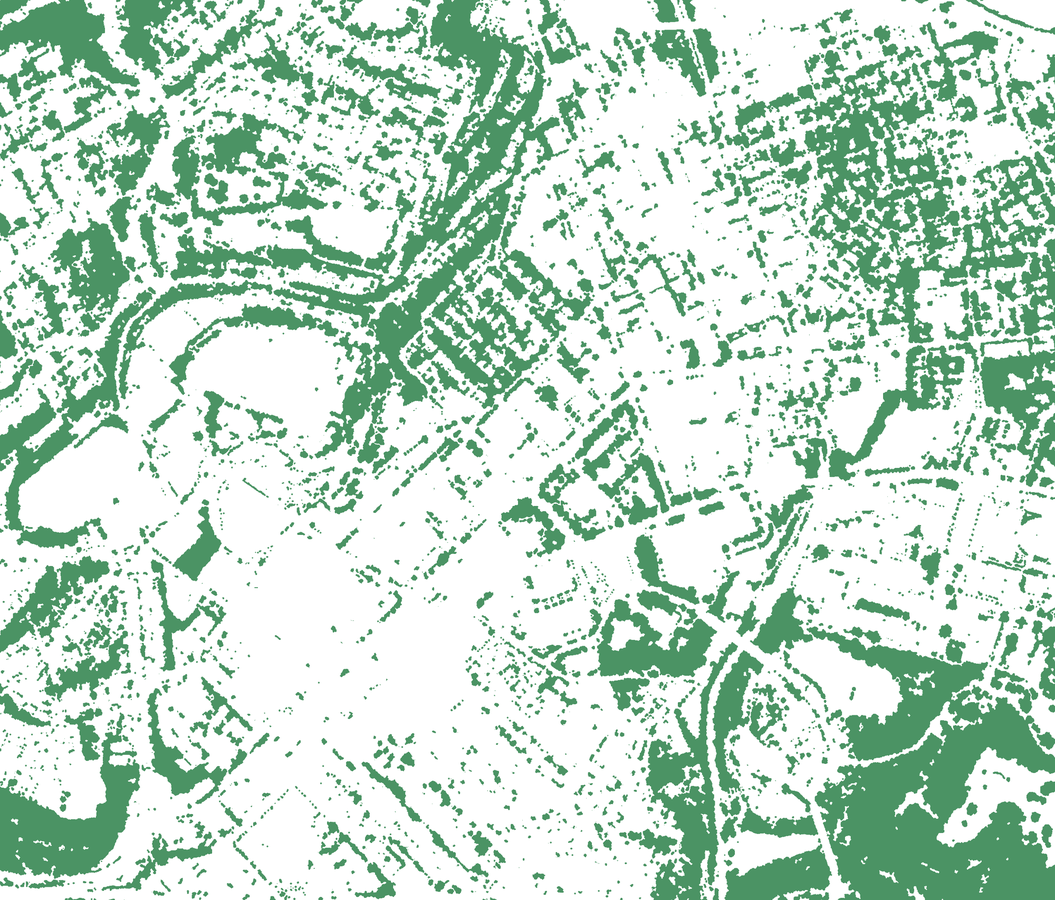
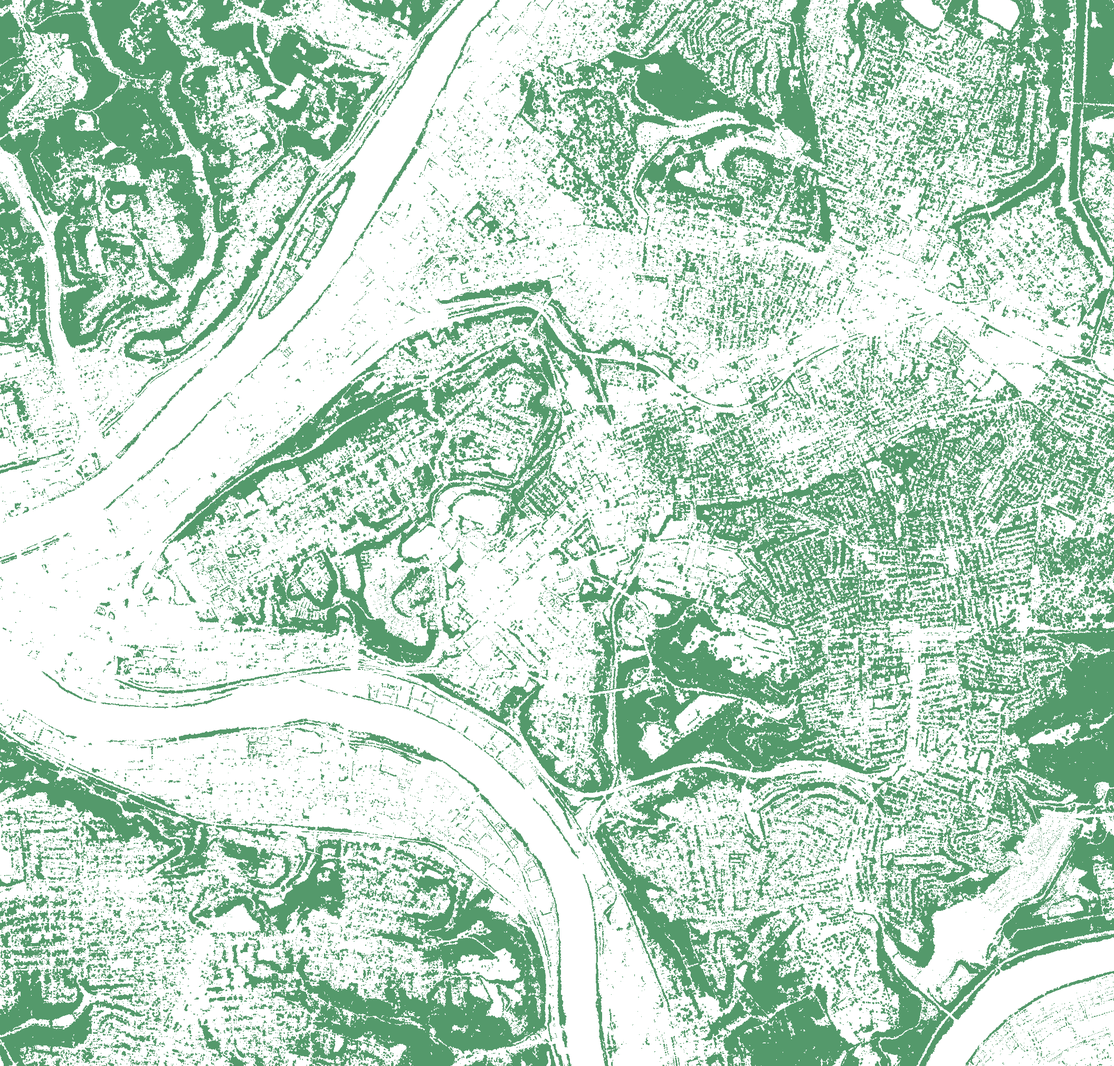
Widen the canopy layer for context; mark the modelled area; drop CARTO tiles
Canopy was drawn only for the study area, so at any zoom that showed the
wider city, leafy neighbours like Squirrel Hill and Shadyside appeared bare -
"no data" and "no trees" rendered identically.

Canopy now has two rasters with different jobs:
  - simulation: 1 m over the study area, unchanged, still the only thing
    sampled for exposure
  - display:    4 m over a 3 km padded area, never sampled
Verified the split changes nothing: crash test for 2035 / 3 PM / older adults
is bit-identical at 2082.319455.

Also draws the modelled area as a dashed outline. The context canopy now
deliberately extends past the scored area, so the map has to say which part
is scored - otherwise it trades one ambiguity for another.

Separately, the "API KEY REQUIRED" watermark was coming from make inspect,
not the app: pipeline/inspect_map.py still pointed at CARTO's raster tiles,
which now require a key and stamp that text across every tile. Switched to
OpenStreetMap tiles, which need none. The app was already clean - it uses
Mapbox when a token is set and OSM otherwise.

canopy.png drops from 1.73 MB to 0.53 MB despite covering 11x the area,
since display does not need metre resolution. Bundle 7.3 MB -> 6.1 MB.

diff --git a/web/components/MapView.tsx b/web/components/MapView.tsx
@@ -179,6 +179,29 @@ export default function MapView({
           },
         });
 
+        // The modelled area, drawn as a thin outline. Without it a viewer
+        // cannot tell "no exposure here" from "we did not model here", and
+        // the canopy layer deliberately extends past it for context.
+        const { west, south, east, north } = meta.scope;
+        m.addSource("scope", {
+          type: "geojson",
+          data: {
+            type: "Feature", properties: {},
+            geometry: {
+              type: "LineString",
+              coordinates: [[west, south], [east, south], [east, north],
+                            [west, north], [west, south]],
+            },
+          } as GeoJSON.Feature,
+        });
+        m.addLayer({
+          id: "scope", type: "line", source: "scope",
+          paint: {
+            "line-color": "#64748b", "line-width": 1.2,
+            "line-dasharray": [4, 3], "line-opacity": 0.7,
+          },
+        });
+
         m.addSource("segments", { type: "geojson", data: segments });
         // Grey baseline so the street network is legible before any run.
         m.addLayer({

diff --git a/web/lib/types.ts b/web/lib/types.ts
@@ -24,8 +24,17 @@ export interface Intervention {
 export interface CanopyMeta {
   bounds: [number, number][];
   cover_pct: number;
+  context_cover_pct: number;
   source: string;
   vintage: string;
+}
+
+/** The square the model actually runs in. */
+export interface Scope {
+  west: number;
+  south: number;
+  east: number;
+  north: number;
 }
 
 export interface Meta {
@@ -39,6 +48,7 @@ export interface Meta {
   interventions: Record<string, Intervention>;
   variants: string[];
   canopy: CanopyMeta | null;
+  scope: Scope;
   climate_method: Record<string, unknown>;
   canopy_source: string;
   canopy_vintage: string;

diff --git a/web/components/ControlPanel.tsx b/web/components/ControlPanel.tsx
@@ -95,6 +95,10 @@ export default function ControlPanel({
           Oakland, Pittsburgh · {meta.seg_ids.length.toLocaleString()} walking
           segments · Forbes / Fifth / Craig corridors
         </p>
+        <p className="mt-1 text-[11px] text-slate-500">
+          The dashed square on the map is the modelled area. Context layers
+          extend past it; nothing outside it is scored.
+        </p>
       </Row>
 
       <Row n={2} title="Time">

diff --git a/pipeline/canopy.py b/pipeline/canopy.py
@@ -34,15 +34,59 @@ CANOPY_SOURCE = "Allegheny County Urban Tree Canopy 2010 (Tree Pittsburgh / Univ
 
 # Class colours in the served rendering, sampled from the raster itself.
 CANOPY_RGB = (0, 128, 0)
-PIXEL_M = 1.0          # one metre per pixel
+PIXEL_M = 1.0          # one metre per pixel, for the simulation raster
 MAX_PIXELS = 4000      # service-side export cap
 
+# A second, wider raster exists only so the map does not end in a hard green
+# rectangle. Drawing canopy for the study area alone makes leafy neighbours
+# like Squirrel Hill and Shadyside look bare, because "no data" and "no
+# trees" render identically. This layer is never sampled for exposure - the
+# simulation still runs on the narrow study area and nothing else.
+CONTEXT_PAD_M = 3000.0
+CONTEXT_PIXEL_M = 4.0
+CONTEXT_PATH = RAW / "canopy_context.npz"
 
-def _metric_bounds() -> tuple[float, float, float, float]:
+
+def _metric_bounds(pad_m: float = 0.0) -> tuple[float, float, float, float]:
     bb = gpd.GeoSeries(
         [box(BBOX["west"], BBOX["south"], BBOX["east"], BBOX["north"])],
         crs=CRS_WGS84).to_crs(CRS_METRIC).iloc[0]
-    return bb.bounds  # minx, miny, maxx, maxy
+    minx, miny, maxx, maxy = bb.bounds
+    return (minx - pad_m, miny - pad_m, maxx + pad_m, maxy + pad_m)
+
+
+def _fetch_mask(minx: float, miny: float, maxx: float, maxy: float,
+                pixel_m: float) -> np.ndarray:
+    """Export the land-cover rendering and keep only the tree-canopy class."""
+    w = int(np.ceil((maxx - minx) / pixel_m))
+    h = int(np.ceil((maxy - miny) / pixel_m))
+    if max(w, h) > MAX_PIXELS:
+        raise RuntimeError(f"export {w}x{h} exceeds service cap {MAX_PIXELS}")
+
+    epsg = int(CRS_METRIC.split(":")[1])
+    r = requests.get(SERVICE, params={
+        "bbox": f"{minx},{miny},{maxx},{maxy}", "bboxSR": epsg, "imageSR": epsg,
+        "size": f"{w},{h}", "format": "png", "transparent": "false",
+        "f": "image", "layers": "show:0",
+    }, timeout=300)
+    r.raise_for_status()
+    rgb = np.array(Image.open(io.BytesIO(r.content)).convert("RGB"))
+    mask = np.all(rgb == np.array(CANOPY_RGB, dtype=np.uint8), axis=-1)
+    # PNG rows run north->south; flip so row index increases with northing.
+    return np.flipud(mask)
+
+
+def build_context_mask(force: bool = False) -> tuple[np.ndarray, tuple]:
+    """Coarser canopy over a padded area, for display context only."""
+    if CONTEXT_PATH.exists() and not force:
+        z = np.load(CONTEXT_PATH)
+        return z["mask"], (float(z["minx"]), float(z["miny"]), float(z["pixel_m"]))
+    minx, miny, maxx, maxy = _metric_bounds(CONTEXT_PAD_M)
+    mask = _fetch_mask(minx, miny, maxx, maxy, CONTEXT_PIXEL_M)
+    CONTEXT_PATH.parent.mkdir(parents=True, exist_ok=True)
+    np.savez_compressed(CONTEXT_PATH, mask=mask, minx=minx, miny=miny,
+                        pixel_m=CONTEXT_PIXEL_M)
+    return mask, (minx, miny, CONTEXT_PIXEL_M)
 
 
 def build_mask(force: bool = False) -> tuple[np.ndarray, tuple]:
@@ -56,24 +100,7 @@ def build_mask(force: bool = False) -> tuple[np.ndarray, tuple]:
         return z["mask"], (float(z["minx"]), float(z["miny"]), float(z["pixel_m"]))
 
     minx, miny, maxx, maxy = _metric_bounds()
-    w = int(np.ceil((maxx - minx) / PIXEL_M))
-    h = int(np.ceil((maxy - miny) / PIXEL_M))
-    if max(w, h) > MAX_PIXELS:
-        raise RuntimeError(f"export {w}x{h} exceeds service cap {MAX_PIXELS}")
-
-    epsg = int(CRS_METRIC.split(":")[1])
-    r = requests.get(SERVICE, params={
-        "bbox": f"{minx},{miny},{maxx},{maxy}", "bboxSR": epsg, "imageSR": epsg,
-        "size": f"{w},{h}", "format": "png", "transparent": "false",
-        "f": "image", "layers": "show:0",
-    }, timeout=300)
-    r.raise_for_status()
-
-    rgb = np.array(Image.open(io.BytesIO(r.content)).convert("RGB"))
-    mask = np.all(rgb == np.array(CANOPY_RGB, dtype=np.uint8), axis=-1)
-    # PNG rows run north->south; flip so row index increases with northing.
-    mask = np.flipud(mask)
-
+    mask = _fetch_mask(minx, miny, maxx, maxy, PIXEL_M)
     MASK_PATH.parent.mkdir(parents=True, exist_ok=True)
     np.savez_compressed(MASK_PATH, mask=mask, minx=minx, miny=miny,
                         pixel_m=PIXEL_M)
@@ -94,6 +121,10 @@ def sample(mask: np.ndarray, geo: tuple, xs: np.ndarray, ys: np.ndarray
 
 if __name__ == "__main__":
     mask, geo = build_mask()
-    print(f"  canopy mask {mask.shape[1]}x{mask.shape[0]} px @ {geo[2]:.0f} m")
+    print(f"  simulation mask {mask.shape[1]}x{mask.shape[0]} px @ {geo[2]:.0f} m")
     print(f"  canopy cover: {mask.mean()*100:.1f}% of the study area")
+    cmask, cgeo = build_context_mask()
+    print(f"  context mask   {cmask.shape[1]}x{cmask.shape[0]} px @ {cgeo[2]:.0f} m "
+          f"({CONTEXT_PAD_M/1000:.0f} km pad, display only)")
+    print(f"  context cover: {cmask.mean()*100:.1f}%")
     print(f"  source: {CANOPY_SOURCE}")

diff --git a/pipeline/step08_export_web.py b/pipeline/step08_export_web.py
@@ -19,8 +19,8 @@ import numpy as np
 
 sys.path.insert(0, str(__import__("pathlib").Path(__file__).resolve().parent.parent / "api"))
 
-from config import (CACHE, CENTER, CORRIDORS, CRS_METRIC, CRS_WGS84, HOURS,  # noqa: E402
-                    PERSONAS, ROOT)
+from config import (BBOX, CACHE, CENTER, CORRIDORS, CRS_METRIC,  # noqa: E402
+                    CRS_WGS84, HOURS, PERSONAS, ROOT)
 from engine import Adapter, Engine  # noqa: E402
 
 OUT = ROOT / "web" / "public" / "data"
@@ -95,11 +95,15 @@ def main() -> None:
         from shapely.geometry import box as _box
 
         import canopy as canopy_mod
-        mask, geo = canopy_mod.build_mask()
+        # Display uses the padded context raster, so the layer does not end in
+        # a hard rectangle that makes leafy neighbouring areas look bare.
+        # The simulation still reads the narrow 1 m mask and is unaffected.
+        mask, geo = canopy_mod.build_context_mask()
+        sim_mask, _ = canopy_mod.build_mask()
         rgba = np.zeros((*mask.shape, 4), dtype=np.uint8)
-        rgba[mask] = (31, 122, 62, 205)
+        rgba[mask] = (31, 122, 62, 195)
         img = Image.fromarray(np.flipud(rgba))
-        img.thumbnail((2000, 2000))
+        img.thumbnail((2200, 2200))
         img.save(OUT / "canopy.png", optimize=True)
 
         minx, miny, px = geo
@@ -109,12 +113,14 @@ def main() -> None:
             .to_crs(CRS_WGS84).iloc[0].bounds
         canopy_meta = {
             "bounds": [[w, n_], [e_, n_], [e_, s_], [w, s_]],
-            "cover_pct": round(float(mask.mean()) * 100, 1),
+            "cover_pct": round(float(sim_mask.mean()) * 100, 1),
+            "context_cover_pct": round(float(mask.mean()) * 100, 1),
             "source": canopy_mod.CANOPY_SOURCE,
             "vintage": canopy_mod.CANOPY_VINTAGE,
         }
-        print(f"  canopy overlay: {mask.shape[1]}x{mask.shape[0]} px, "
-              f"{canopy_meta['cover_pct']}% cover")
+        print(f"  canopy overlay: {mask.shape[1]}x{mask.shape[0]} px @ "
+              f"{px:.0f} m (display), {canopy_meta['cover_pct']}% cover in the "
+              f"study area")
     except Exception as exc:
         canopy_meta = None
         print(f"  canopy overlay skipped: {exc}")
@@ -209,6 +215,11 @@ def main() -> None:
                       for k, v in e.scenarios["scenarios"].items()],
         "climate_method": e.scenarios["method"],
         "canopy": canopy_meta,
+        # The square the model actually runs in. Drawn on the map so a viewer
+        # can tell the difference between "no exposure here" and "not modelled
+        # here" - a distinction the canopy layer alone cannot make.
+        "scope": {"west": BBOX["west"], "south": BBOX["south"],
+                  "east": BBOX["east"], "north": BBOX["north"]},
         "canopy_source": str(sun["canopy_source"]),
         "canopy_vintage": str(sun["canopy_vintage"]),
         "trip_seed": e.trip_meta["seed"],

diff --git a/pipeline/inspect_map.py b/pipeline/inspect_map.py
@@ -72,10 +72,13 @@ let hourIdx = __DEFAULT_HOUR_IDX__;
 
 const map = new maplibregl.Map({
   container:'map',
-  style:{version:8,sources:{carto:{type:'raster',
-    tiles:['https://basemaps.cartocdn.com/rastertiles/light_all/{z}/{x}/{y}.png'],
-    tileSize:256,attribution:'&copy; OpenStreetMap &copy; CARTO'}},
-    layers:[{id:'bg',type:'raster',source:'carto'}]},
+  // CARTO's raster endpoint now requires an API key and stamps
+  // "API KEY REQUIRED" across every tile; OSM's needs none.
+  style:{version:8,sources:{osm:{type:'raster',
+    tiles:['https://tile.openstreetmap.org/{z}/{x}/{y}.png'],
+    tileSize:256,maxzoom:19,attribution:'&copy; OpenStreetMap contributors'}},
+    layers:[{id:'bg',type:'raster',source:'osm',
+      paint:{'raster-opacity':0.5,'raster-saturation':-0.6}}]},
   center:__CENTER__, zoom:14.2
 });
 
